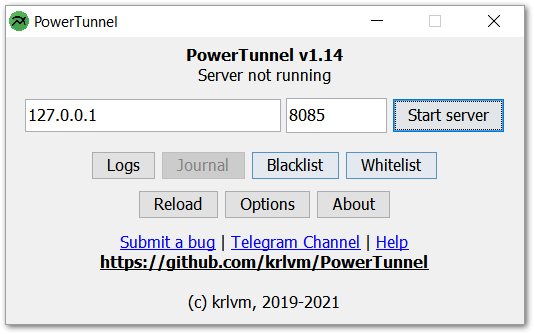
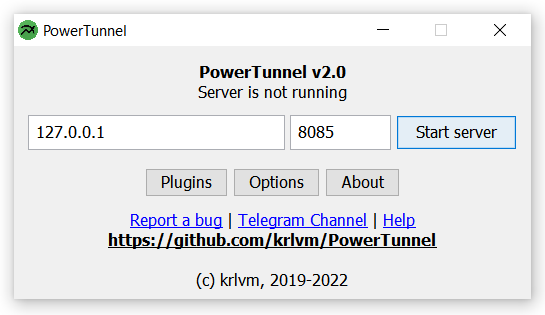
Update readme

Changed region(s): [[0.0, 0.0, 1.0, 1.0]]

diff --git a/README.md b/README.md
@@ -22,11 +22,49 @@ PowerTunnel is an extensible proxy server built on top of [LittleProxy](https://
 PowerTunnel provides an SDK that allows you to extend its functionality however you like, and even handle encrypted HTTPS traffic (powered by [LittleProxy-MITM](https://github.com/ganskef/LittleProxy-mitm)), which can be especially useful in web development. PowerTunnel has an Android version, so any plugin you write can work on almost all devices.
 
 
-PowerTunnel was originally developed and is best known as a censorship bypass tool. This functionality has been spun off in the [LibertyTunnel](https://github.com/krlvm/LibertyTunnel) plugin, it is installed by default, just like [DNS Resolver](https://github.com/krlvm/PowerTunnel-DNS) with DNS over HTTPS support.
+PowerTunnel was originally developed and is best known as a censorship bypass tool. This functionality has been spun off in the [LibertyTunnel](https://github.com/krlvm/LibertyTunnel) plugin which is installed by default, just like [DNS Resolver](https://github.com/krlvm/PowerTunnel-DNS) with DNS over HTTPS support.
 
-Version 2.0 is currently in Beta, the SDK Documentation is coming soon.
+#### Anti-censorship tool
 
-### Launch arguments
+Digital censorship has become widespread in authoritarian and developing countries: governments install DPI - Deep Packet Inspection systems - for Internet Service Providers, which allows analyzing and blocking traffic to websites they don't want you to see, forcing you to use slow and often paid proxies or VPN services with dubious privacy policy.
+
+PowerTunnel is an active DPI circumvention utility - it works only on your PC and do not route your traffic through some third-party webservers. It creates a local proxy server on your device and diverts your HTTP(S) traffic there, where PowerTunnel modifies your traffic in a special way to exploit bugs in DPI systems which makes it possible to bypass the lock - without (significantly) slowing down your Internet connection.
+
+Anti-censorship module can be configured in Plugins window - it is called LibertyTunnel.
+
+In this sense, PowerTunnel is a free cross-platform implementation of [GoodbyeDPI](https://github.com/ValdikSS/GoodbyeDPI) written in Java.
+
+Please, note that PowerTunnel does not change your IP address.
+
+## Configuring
+
+### Downloading PowerTunnel
+
+PowerTunnel binary can be downloaded from the [Releases](https://github.com/krlvm/PowerTunnel/releases) page.
+
+If you don't trust the prebuilt binaries, you can build PowerTunnel from source - it is using Gradle build system.
+
+### Launching PowerTunnel
+
+PowerTunnel is a portable Java application, and it does not require additional steps to get it working.
+
+You need to install [Java](https://java.com) to run PowerTunnel.
+
+PowerTunnel can be started by double-clicking the executable .jar file or by starting it from command line ([see below](#launch-arguments)).
+
+After the first launch, PowerTunnel will create directories for storing plugins and configuration files. 
+
+### Installing plugins
+
+To install a plugin, just place its .jar file into `plugins` directory.
+
+Please, make sure you do not have installed different versions of the same plugin.
+
+### Configuring plugins
+
+Installed plugins can be configured from the user interface - click the "Plugins" button of main window to see the list of plugins.
+
+## Launch arguments
 You can specify some params that will override settings through CLI:
 
 ```
@@ -38,9 +76,9 @@ $ java -jar PowerTunnel.jar -help
     --cfg <arg>                      set preference value
     --console                        run application in console mode
     --disable-auto-proxy-setup       disable auto proxy setup
-    --disable-native-skin <arg>      disable platform native UI skin
+    --disable-native-skin            disable platform native UI skin
     --disable-tray                   disable tray mode
-    --disable-ui-scaling <arg>       disable UI scaling
+    --disable-ui-scaling             disable UI scaling
     --disable-updater                disable Update Notifier
     --enable-logging                 enable logging to file
     --help                           display help
@@ -57,6 +95,10 @@ $ java -jar PowerTunnel.jar -help
 ```
 
 If you need to set a certain plugin preference, use `-cfg pluginID.preferenceKey [value]`
+
+## Bundled Plugins
+* [LibertyTunnel](https://github.com/krlvm/LibertyTunnel) - anti-censorship plugin for PowerTunnel
+* [DNS Resolver](https://github.com/krlvm/PowerTunnel-DNS) - DNS Resolver with DNS over HTTPS (DoH) support
 
 ## Dependencies
 * [LittleProxy](https://github.com/adamfisk/LittleProxy) - proxy server, [forked version](https://github.com/mrog/LittleProxy)
